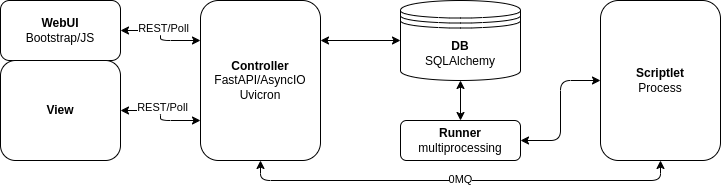
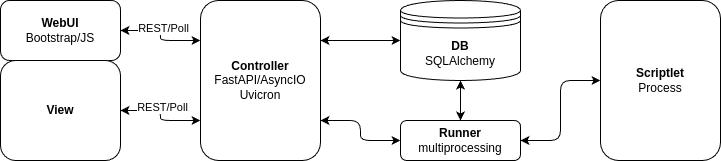
- docu fixes

diff --git a/README.md b/README.md
@@ -47,7 +47,6 @@ cd infraops
 ### Docker compose
 - `docker-compose.yml`
 ```
-version: '3.6'
 networks:
   default:
     driver: bridge
@@ -93,6 +92,8 @@ services:
         "jobs": "../data/jobs"
     },
     "log": {
+        "access": "../log/access.log",
+        "info": "../log/info.log",
         "loglevel": "debug"
     }
 }
